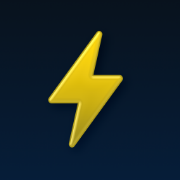
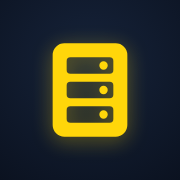
chore(ui): replace the template's mark with a rack

Changed region(s): [[0.2222, 0.1667, 0.7778, 0.8611], [0.9722, 0.9722, 1.0, 1.0], [0.0, 0.9722, 0.0278, 1.0]]

diff --git a/hyprprem/templates/partials/mark.html b/hyprprem/templates/partials/mark.html
@@ -1,3 +1,4 @@
 {# The brand mark, inline so it takes the accent color and costs no request.
-   Keep this path and static/img/logo.svg in step when rebranding. #}
-<svg class="mark {{ extra|default('') }}" viewBox="0 0 24 24" aria-hidden="true"><path d="M12 1.5C12.5 7.6 16.4 11.5 22.5 12 16.4 12.5 12.5 16.4 12 22.5 11.5 16.4 7.6 12.5 1.5 12 7.6 11.5 11.5 7.6 12 1.5Z"/></svg>
+   Keep this path and static/img/logo.svg in step when rebranding. A rack:
+   the frame with three units cut out, each with its indicator light. #}
+<svg class="mark {{ extra|default('') }}" viewBox="0 0 24 24" aria-hidden="true"><path fill-rule="evenodd" d="M6.5 2h11A2.5 2.5 0 0 1 20 4.5v15a2.5 2.5 0 0 1-2.5 2.5h-11A2.5 2.5 0 0 1 4 19.5v-15A2.5 2.5 0 0 1 6.5 2Zm1.3 3a.8.8 0 0 0-.8.8v1.9a.8.8 0 0 0 .8.8h8.4a.8.8 0 0 0 .8-.8V5.8a.8.8 0 0 0-.8-.8Zm0 5.25a.8.8 0 0 0-.8.8v1.9a.8.8 0 0 0 .8.8h8.4a.8.8 0 0 0 .8-.8v-1.9a.8.8 0 0 0-.8-.8Zm0 5.25a.8.8 0 0 0-.8.8v1.9a.8.8 0 0 0 .8.8h8.4a.8.8 0 0 0 .8-.8v-1.9a.8.8 0 0 0-.8-.8Z"/><path d="M14.9 5.85a.9.9 0 1 1 0 1.8.9.9 0 0 1 0-1.8Zm0 5.25a.9.9 0 1 1 0 1.8.9.9 0 0 1 0-1.8Zm0 5.25a.9.9 0 1 1 0 1.8.9.9 0 0 1 0-1.8Z"/></svg>
